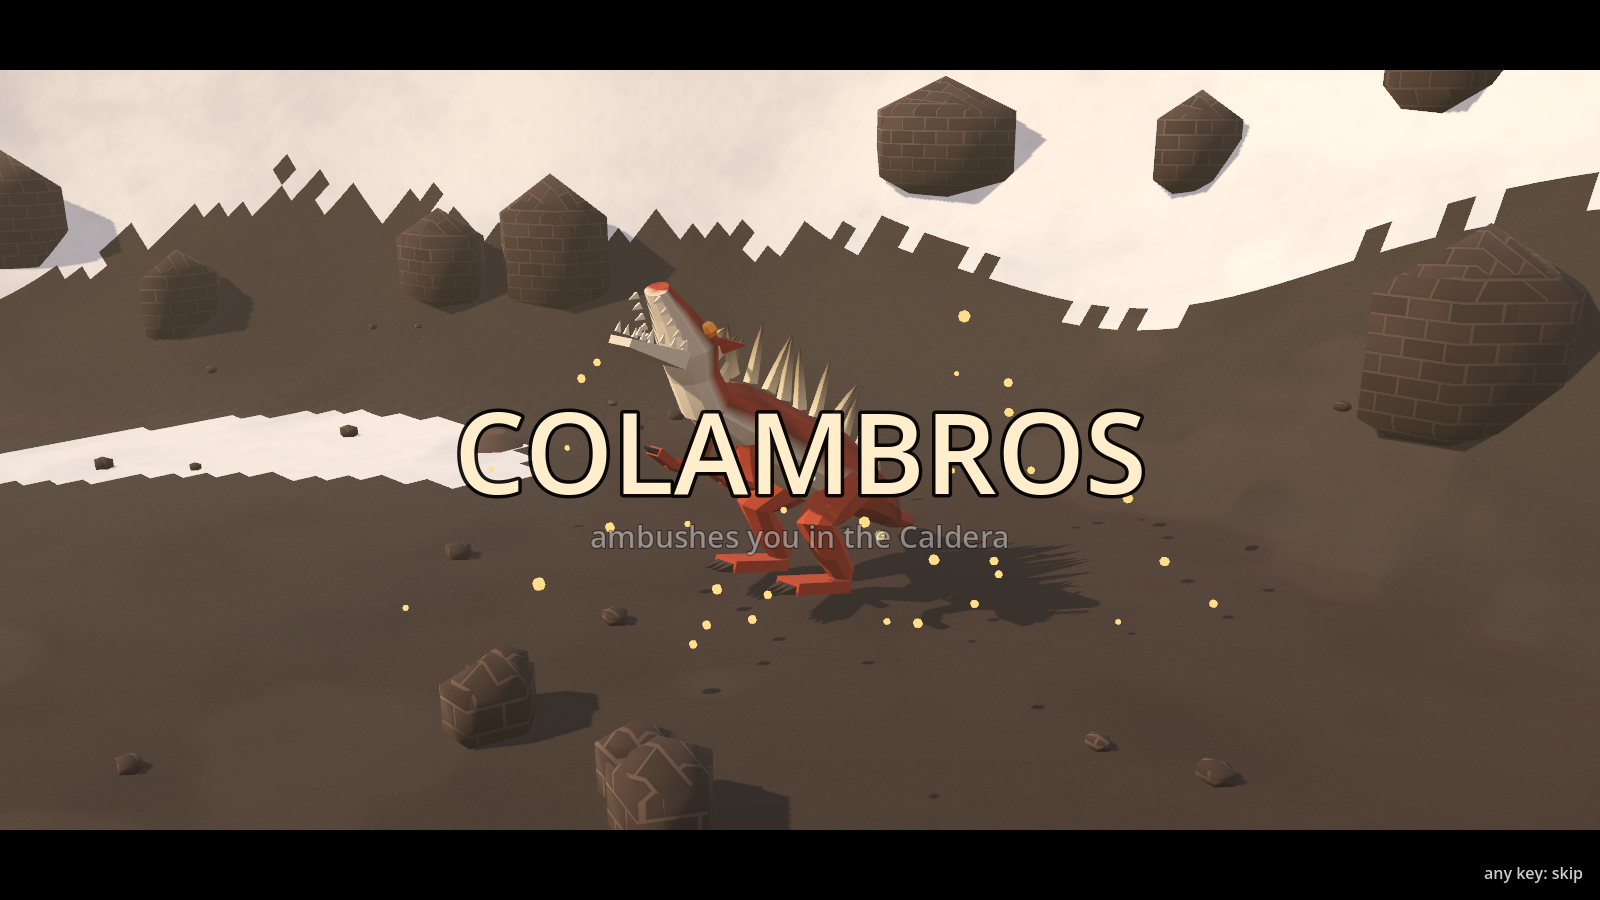
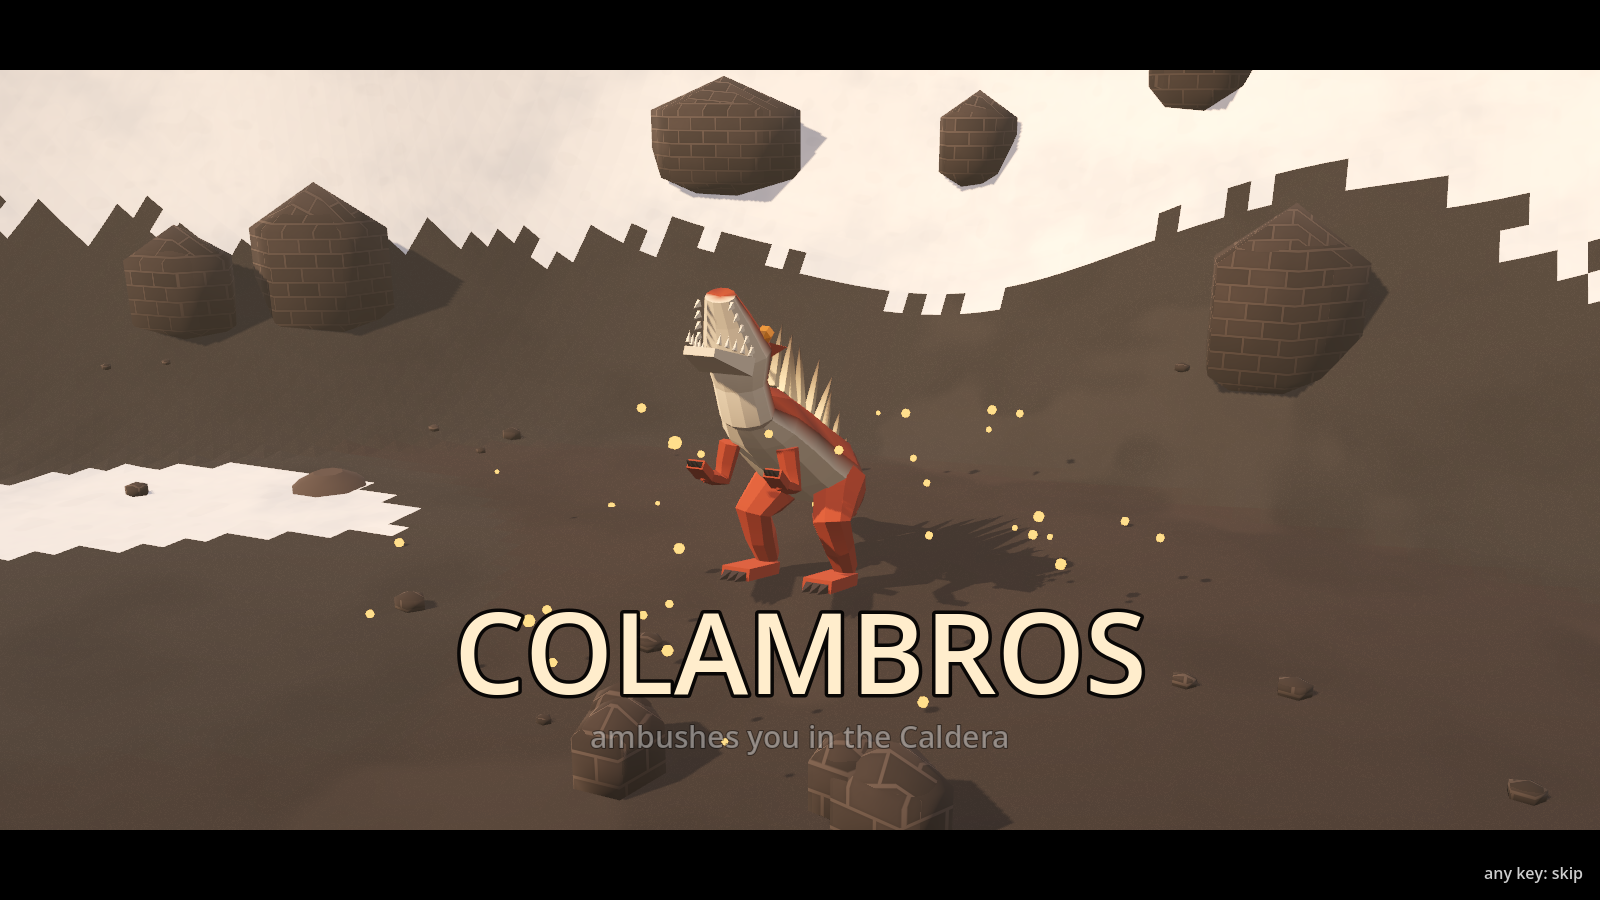
Lane H: R-U2 drops/save API, map reframed (x5 rig, all sites in frame), ambush polish, docs
Results screen rolls HHDrops.roll(monster, rng, weapon, save.owned) then
own / record_hunt / save; world map camera under a scaled parent so the
200 m region frames; terrain margin; ring colours from renders; ambush name
in the lower third, camera off the clear hunter-monster line, stage light;
CanvasLayer roots for Control screens; design/hunt/HUNT.md; DECISIONS-lane-H.md.

Claude-Session: https://claude.ai/code/session_01TkDAFjAZfbyuVMBwWarbCq

diff --git a/DECISIONS-lane-H.md b/DECISIONS-lane-H.md
@@ -1,0 +1,24 @@
+# DECISIONS, Lane H (hunt loop), block H500-H549
+
+Rows in DECISIONS.md format; the integrator folds them into DECISIONS.md on merge. Requests are at the end.
+
+| # | Date | Decision | By | Why | Status |
+|---|------|----------|----|-----|--------|
+| H500 | 2026-10-19 | The hunt loop is a pure transition table (`HHHuntFlow.next(state, result) -> { screen, cfg }`) driven by `HHHunt` against a duck-typed shell. Screens are Nodes with `setup(cfg)` + `finished(result)` (H48). The arena loader is boot.gd's `_load_arena` copied into `HHHuntKit.load_arena`, since Lane H may not edit boot. | Claude, decided | A headless test walks a whole hunt without a window; the driver's only job is to show screens and forward signals. | current |
+| H501 | 2026-10-19 | Sibling-lane classes (HHRegistry, HHLobby, HHDrops, HHSave, HHUpgrades) are found by global class name (`ProjectSettings.get_global_class_list()`), not by path, and every use is optional: biome / name tables, a prep stub, a shell stub, an HHFight watcher and "(no drops yet)" stand in while a lane is absent. | Claude, decided | Lanes L and U were parallel; the loop had to run and test alone, and still had to light up on merge with no edits. (U merged mid-lane: the real HHDrops / HHSave API is honoured per R-U2, see H507.) | current |
+| H502 | 2026-10-19 | The world map's HHCameraRig sits under a Node3D scaled x5, with pivots given in rig units (world / 5). | Claude, decided | HHCameraRig clamps dist to 40 m; the 200 m region needs the camera 170 m up and the rig is core (not Lane H's to edit). Camera3D orthonormalises its transform, so only the orbit radius scales; orbit, zoom and clicks keep the fight's feel. Request R-H4 would remove the trick. | current |
+| H503 | 2026-10-19 | Map layout from the seed alone: a seeded shuffle puts one biome per quarter at ~50 m from the centre (±8 m, ±0.22 rad jitter), the disturbance is `rng.randi_range(0, 3)`, terrain is 28 gaussian blobs over the region with the pond in a bowl, the cave on a mound, the caldera on a rim, the start and each site levelled. | Claude, decided | Same seed, same map (tested); the four looks are the four arenas' roles (pond_bed / water_shallow / lilypad / reed, cave_wall / cave_floor / stalagmite, glade_grass / canopy / glade_trunk / bush, snow / ash / basalt / lava / scoria) so the map reads as the arenas it leads to. | current |
+| H504 | 2026-10-19 | The disturbance is three staggered rings (`HHHuntKit.ring`) scaling to `hunt_pulse_radius_m` over `hunt_pulse_period` plus rising motes, in the biome's colour and verb: pond ripples (near-white), cave rumbles (pale dust), glade shivers (pollen), caldera smoulders (embers). The map hint names the biome's verb, not the site. | Claude, decided | Kickoff: "you see a disturbance in the water". A light-blue ring vanished on the water and a brown one on the cave; the colours were picked from renders. | current |
+| H505 | 2026-10-19 | The hunter on the map is Lane B's rigged body at x1.6 under a true-hex-coloured ring, running at `hunt_run_mps` = the fight's `run_mps` (8). Approach = within `hunt_approach_m` (4 m) of the stirring site. | Claude, decided | At 170 m a 2.2 m figure is a smudge; the ring is the token, the figure is the flavour. Same pace as the fight so the map does not feel like a different game. | current |
+| H506 | 2026-10-19 | Ambush timeline (all `hunt_ambush_*`): lurk 0-0.9 s (camera behind the hunter, rings at the spawn), burst 0.9-1.6 s (scale 0.02 -> 1 with a bulge, rise from -3 m, the roar clip, a one-shot spray of 90 motes, camera shake 0.7, a stage light fading up over the monster), name at 1.7 s (slams 3.2x -> 1x in 0.28 s, lower third, subtitle "ambushes you in the <arena>"), done at 3.8 s. Letterbox bars. Any key or click skips. The camera lands a touch (0.38 rad) off the hunter-monster line. | Claude, decided | Roar clips per monster: frill_roar, rattle_roar, roar, pollen_shake (Spirewalker has no roar; its shake is the threat). The three-quarter angle put a glade canopy over Spirewalker; the floor between the spawns is clear by construction. The cave is dark enough that the stage light is the difference between a silhouette and a monster. The name sat on the monster's head at centre. | current |
+| H507 | 2026-10-19 | Results: VICTORY / FALLEN / ABANDONED, time = ticks / 30, dealt = monster_max_hp - monster_hp, taken = max_hp - hp (max HPs from the payload when sent, else HHTune). Drops roll with `RandomNumberGenerator` seeded from `hash("drops-<monster>-<seed>-<ticks>")`, with the weapon and `save.owned` passed (R-U2); then `own`, `record_hunt`, `save`. A loss rolls nothing but is still recorded. Cards show name, skill letter, blurb from HHUpgrades.TABLE. | Claude, decided | The fight payload carries no sim rng; seed + tick count makes a replayed fight drop the same. | current |
+| H508 | 2026-10-19 | `HHHuntFightWatch` (a child of HHFight that polls `sim.over`, holds 1.6 s for the death clip, F10 = abort) stands in for HHFight's `finished` until Lane L adds it; HHHunt prefers the real signal when the node has one. | Claude, decided | The loop is playable today through `tools/hunt_run.gd`; the author verifies by playing. | current |
+| H509 | 2026-10-19 | Control screens (results, prep stub) put their content under a CanvasLayer with a full-rect Control root. | Claude, decided | Under the shell (a plain Node) a Control has no size and anchors have nothing to follow; the first render had the panel in the top-left corner. | current |
+
+## Requests to the integrator / other lanes
+
+- R-H1 (boot.gd): add `--hunt [--seed N] [--weapon id]` -> `HHHunt.start(shell, { "seed": seed, "weapon": weapon })`, with `shell` = the HHShell instance (or `HHHuntShellStub.new()` added to the boot node until it lands). `run.bat --hunt` then plays the loop.
+- R-H2 (HHShell, Lane L): `show_screen(screen: Node, cfg)` adds the screen and calls `screen.setup(cfg)`; `play(cfg)` returns the node whose `finished(result)` carries the fight payload (HHFight once `setup_cfg` + `finished` exist). HHHunt duck-types both and falls back to `HHHuntShellStub.launch_fight` when `play` is missing. Please confirm the lobby's class name: HHHunt looks for `HHLobby`, then `HHLobbyScreen`, then `res://src/game/lobby/lobby.gd`.
+- R-H3 (lobby, Lane L): when `cfg.locked` contains `arena` / `monster`, grey those tiles out; emit `finished({ result: "play", cfg })` and `finished({ result: "back" })`.
+- R-H4 (core, optional): make `HHCameraRig.DIST_MAX` a `var dist_max` (default 40) so the world map can drop the scaled parent of H502.
+- R-H5 (fight): the `finished` payload should carry `max_hp` and `monster_max_hp` (HHHuntFightWatch already does); HHResults falls back to HHTune when they are missing.

diff --git a/design/hunt/HUNT.md b/design/hunt/HUNT.md
@@ -1,0 +1,54 @@
+# The hunt loop (Lane H, H48)
+
+The kickoff's hunt, start to finish: you explore a region map, a site stirs,
+you walk up to it, the monster bursts out angry, you prepare, you fight, you
+take your spoils, you are back on the map.
+
+```
+map ---approach---> ambush ---> prep ---play---> fight ---> results ---continue---> map
+ |                               \---back---> map
+ \---Esc---> (end)
+```
+
+| Screen | Script | What it does | Ends with |
+|---|---|---|---|
+| map | `src/game/hunt/world_map.gd` `HHWorldMap` | A 200 m region seen from 170 m up: four sites in the four biome looks (pond, cave mound, glade, caldera), the hunter as a token with a true-hex ring, one site pulsing rings and motes. Right-click runs (8 m/s, `hunt_run_mps`), drag orbits, wheel zooms. Site names fade in when the cursor is near them. | `{ result: "approach", monster, arena, site }` within `hunt_approach_m` (4 m) of the stirring site; `{ result: "quit" }` on Esc |
+| ambush | `ambush.gd` `HHAmbush` | The monster's arena loads; the hunter stands at the player spawn; the monster spawn pulses; at 0.9 s the monster erupts (scale-up, rise, roar clip, a spray of the biome's motes, a stage light); the camera swings from the hunter onto it; at 1.7 s its name slams in. 3.8 s. | `{ result: "ambushed" }`, or `"skipped"` on any key / click |
+| prep | Lane L's lobby (`HHLobby` / `src/game/lobby/lobby.gd`), else `prep_stub.gd` | cfg.locked = `["arena", "monster"]`: the prep screen may change weapon, elements, upgrades, never the hunt's arena or monster (HHHuntFlow enforces it even if the screen returns them changed). | `{ result: "play", cfg }` or `"back"` |
+| fight | `shell.play(cfg)` -> HHFight | The fight as it is. | `{ result: "win"|"fallen"|"abort", cfg, ticks, hp, monster_hp, max_hp, monster_max_hp }` |
+| results | `results.gd` `HHResults` | VICTORY / FALLEN, time, damage dealt and taken, HP left, the drops as cards (name, skill letter, blurb from `HHUpgrades.TABLE`). On a win: `HHDrops.roll(monster, rng, weapon, save.owned)` (rng seeded from the launch seed + tick count, so a replay rolls the same), `save.own(id)` per drop, `save.record_hunt(...)`, `save.save()` (R-U2). Both classes are found by name and skipped when absent: "(no drops yet)". | `{ result: "continue", drops, summary }` on Continue / Enter / Space |
+
+`HHHuntFlow` (`hunt_flow.gd`) is the pure transition table; `HHHunt`
+(`hunt.gd`) drives it against a shell; `HHHuntKit` holds the hunt's feel
+numbers (`TUNE`, registered as `hunt_*` so the F1 panel can edit them), the
+arena loader (boot.gd's `_load_arena`, copied), bodies by duck type, and the
+ring / mote helpers. `HHHuntShellStub`, `HHHuntFightWatch` and
+`HHHuntPrepStub` let the loop run and test before Lanes L and U are in.
+
+## Run it
+
+- Headless: `godot --headless --path . -- --self-test` runs `tests/test_hunt.gd`
+  (12 tests: the flow walk, locked keys, seeded site pick, approach radius,
+  run pace, ambush timeline and roar clips, results with and without
+  HHDrops / HHSave, the driver against a stub shell with and without `play()`).
+- Windowed, today: `godot --path . --script res://tools/hunt_run.gd -- --seed 2 --weapon daggers`
+  plays the whole loop on the stub shell (prep is the stub; F10 aborts a fight).
+- Windowed, once wired: `run.bat --hunt [--seed N] [--weapon id]` (boot.gd, Lane L / integrator).
+- Review renders: `godot --path . --script res://tools/hunt_preview.gd [-- --seeds 1,2 --monsters swampfang,... --lurk 0.6]`
+  writes `design/hunt/shots/map_seed<N>.png`, `ambush_<id>_lurk.png`,
+  `ambush_<id>_peak.png`, `results_win.png`.
+
+## What the integrator wires
+
+1. `boot.gd`: `--hunt` -> `HHHunt.start(shell, { seed, weapon })` where
+   `shell` is HHShell (or `HHHuntShellStub.new()` added to the tree until it
+   lands). Nothing else: HHHunt parents itself to the shell and runs.
+2. HHShell: `show_screen(screen: Node, cfg)` must add the screen and call
+   `screen.setup(cfg)`; `play(cfg)` must return the node whose
+   `finished(result)` carries the fight payload (HHFight itself once it has
+   the signal). HHHunt duck-types both and falls back to hosting screens and
+   building an HHFight itself when they are missing.
+3. The lobby: when shown with `cfg.locked = ["arena", "monster"]`, grey those
+   tiles out and emit `finished({ result: "play", cfg })` / `{ result: "back" }`.
+4. Optional: lift `HHCameraRig.DIST_MAX` to a var (H502) so the map can drop
+   its scaled parent.
